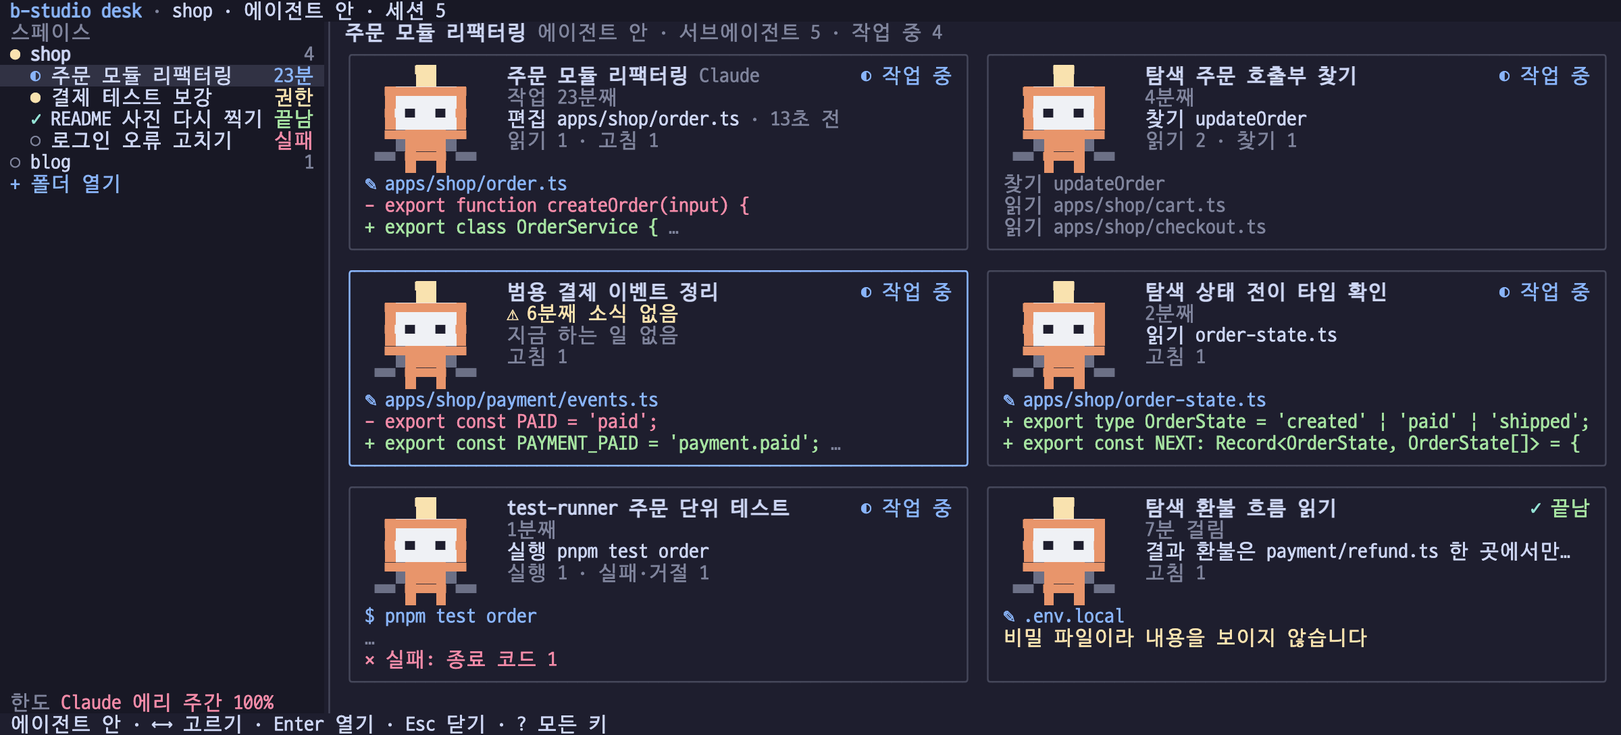
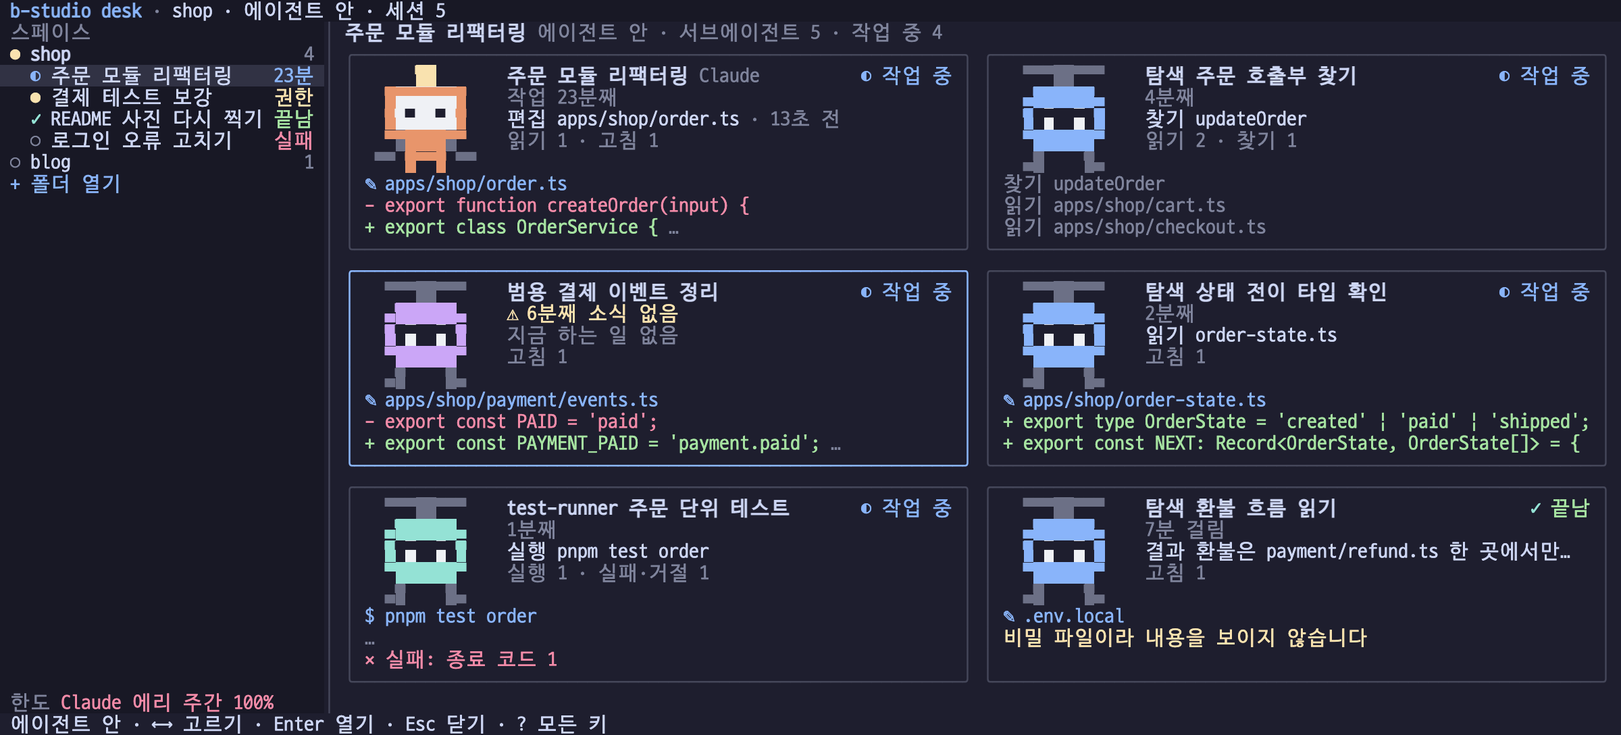
feat(desk): 에이전트 안 화면의 서브에이전트 카드에 메인과 다른 도우미 그림을 쓰고 종류마다 색을 달리한다 (#1417)

diff --git a/apps/cli/src/desk/sprite.test.ts b/apps/cli/src/desk/sprite.test.ts
@@ -4,7 +4,7 @@ import { join } from 'node:path';
 import { crc32, deflateSync } from 'node:zlib';
 import { afterEach, describe, expect, it } from 'vitest';
 import { stringWidth, stripAnsi } from './screen';
-import { decodePng, decodeSprite, defaultSprite, encodePng, frameAt, frameDelay, loadSprite, pickSprite, scalePixels, scanSprites, shortestFrame, shrinkPixels, spriteFromRows, spriteLines, trimSprite, type Sprite } from './sprite';
+import { decodePng, decodeSprite, defaultSprite, subagentSprite, encodePng, frameAt, frameDelay, loadSprite, pickSprite, scalePixels, scanSprites, shortestFrame, shrinkPixels, spriteFromRows, spriteLines, trimSprite, type Sprite } from './sprite';
 import { DEFAULT_THEME } from './theme';
 
 function chunk(kind: string, body: Buffer): Buffer {
@@ -250,5 +250,44 @@ describe('그림 폴더에서 무작위로 고르기(#902)', () => {
     writeFileSync(join(dir, 'codex.gif'), tinyGif(4, 5, 6));
     const sprite = loadSprite(dir, ['codex']);
     expect(sprite && rgba(sprite, 0, 0)).toEqual([4, 5, 6, 255]);
+  });
+});
+
+describe('서브에이전트 그림', () => {
+  const colorsOf = (sprite: { pixels: Uint8Array }): Set<string> => {
+    const seen = new Set<string>();
+    for (let at = 0; at < sprite.pixels.length; at += 4) if (sprite.pixels[at + 3]) seen.add([sprite.pixels[at], sprite.pixels[at + 1], sprite.pixels[at + 2]].join(','));
+    return seen;
+  };
+  const same = (a: { pixels: Uint8Array }, b: { pixels: Uint8Array }): boolean => Buffer.from(a.pixels).equals(Buffer.from(b.pixels));
+
+  it('메인의 기본 그림과 모양이 다르다(어느 AI의 기본 그림과도 같지 않다)', () => {
+    for (const backend of ['claude-code', 'codex', 'gemini', undefined]) {
+      for (const type of ['Explore', 'Plan', 'general-purpose', 'test-runner', undefined]) expect(same(subagentSprite(type), defaultSprite(backend))).toBe(false);
+    }
+    // 색만 바꾼 같은 모양이 아니다: 불투명한 자리 자체가 다르다
+    const opaque = (sprite: { pixels: Uint8Array }) => Array.from({ length: sprite.pixels.length / 4 }, (_, index) => (sprite.pixels[index * 4 + 3] ? '1' : '0')).join('');
+    expect(opaque(subagentSprite('Explore'))).not.toBe(opaque(defaultSprite('claude-code')));
+  });
+
+  it('CLI에 들어 있는 종류마다 몸 색이 다르고, 메인의 몸 색과 겹치지 않는다', () => {
+    const body = (type: string | undefined) => [...colorsOf(subagentSprite(type))].sort().join(' ');
+    const kinds = ['Explore', 'Plan', 'general-purpose'].map(body);
+    expect(new Set(kinds).size).toBe(3);
+    // 메인의 몸 색(AI별 셋과 모르는 AI의 회색)은 서브에이전트 그림에 쓰지 않는다
+    const mainBodies = ['232,149,107', '138,164,200', '127,183,164', '166,173,200'];
+    for (const type of ['Explore', 'Plan', 'general-purpose', 'test-runner', 'reviewer', undefined]) {
+      for (const color of mainBodies) expect(colorsOf(subagentSprite(type)).has(color)).toBe(false);
+    }
+  });
+
+  it('같은 종류는 같은 그림 객체다(Kitty가 그림을 객체로 기억한다). 사람이 만든 종류와 이상한 이름도 던지지 않는다', () => {
+    expect(subagentSprite('Explore')).toBe(subagentSprite('Explore'));
+    expect(subagentSprite('test-runner')).toBe(subagentSprite('test-runner'));
+    for (const type of ['__proto__', 'constructor', '', 'x'.repeat(10_000)]) expect(subagentSprite(type).width).toBeGreaterThan(0);
+    // 종류가 아무리 많아도 만드는 그림 수는 색 수를 넘지 않는다
+    const made = new Set(Array.from({ length: 500 }, (_, index) => subagentSprite(`custom-${index}`)));
+    expect(made.size).toBeLessThanOrEqual(8);
+    expect(made.size).toBeGreaterThan(1);
   });
 });

diff --git a/apps/cli/src/desk/inside.test.ts b/apps/cli/src/desk/inside.test.ts
@@ -2,6 +2,7 @@ import { describe, expect, it } from 'vitest';
 import { activityLines, MAX_ACTIVITY_LINES, MAX_ENTRIES, cleanText, insideCards, insideFailed, insideKey, insideLoaded, openInside, renderInside, type InsideState } from './inside';
 import { flushPending, handleInput, initialState, type DeskState } from './keys';
 import { stringWidth, stripAnsi } from './screen';
+import { defaultSprite, spriteLines, subagentSprite, type Sprite } from './sprite';
 import { DEFAULT_THEME } from './theme';
 import type { ActivityEntryView, ActivityLogView, DeskAgent, DeskItem } from './types';
 
@@ -327,5 +328,32 @@ describe('에이전트 안: desk 키 처리', () => {
     const opened = handleInput(desk(), 's').state;
     const next = handleInput(opened, '\x02w').state;
     expect(next.inside).toBeUndefined();
+  });
+});
+
+describe('메인과 서브에이전트의 그림이 다르다', () => {
+  // 카드의 그림 자리는 12칸×5줄이다. 그림의 둘째 줄(몸이 나오는 줄)이 어느 카드에 들어갔는지로 본다
+  const row = (sprite: Sprite) => spriteLines(sprite, 12, 5, DEFAULT_THEME, 0)[1]!;
+  const mainArt = row(defaultSprite('claude-code'));
+  const exploreArt = row(subagentSprite('Explore'));
+  const item = { ...session, backend: 'claude-code' };
+
+  it('메인 카드는 세션의 그림, 서브에이전트 카드는 도우미 그림이다(서브에이전트 카드에 메인의 그림이 없다)', () => {
+    expect(mainArt).not.toBe(exploreArt);
+    const lines = renderInside(state(base(), { items: [item] }), { w: 80, h: 40 }, NOW).lines;
+    const withMain = lines.filter((line) => line.includes(mainArt));
+    const withSub = lines.filter((line) => line.includes(exploreArt));
+    // 메인은 한 장, 서브에이전트(탐색)는 한 장 이상
+    expect(withMain).toHaveLength(1);
+    expect(withSub.length).toBeGreaterThanOrEqual(1);
+    expect(withMain[0]).not.toBe(withSub[0]);
+  });
+
+  it('그림 폴더에 subagent 그림이 있으면 서브에이전트 카드가 그것을 쓴다(메인은 그대로)', () => {
+    const custom: Sprite = { width: 1, height: 1, pixels: new Uint8Array([1, 2, 3, 255]) };
+    const lines = renderInside(state(base(), { items: [item], sprites: { subagent: custom } }), { w: 80, h: 40 }, NOW).lines;
+    expect(lines.filter((line) => line.includes(mainArt))).toHaveLength(1);
+    expect(lines.some((line) => line.includes(exploreArt))).toBe(false);
+    expect(lines.some((line) => line.includes(row(custom)))).toBe(true);
   });
 });

diff --git a/apps/cli/src/desk/sprite.ts b/apps/cli/src/desk/sprite.ts
@@ -378,6 +378,49 @@ export function defaultSprite(backend: string | undefined): Sprite {
   return spriteFromRows(ROBOT, { a: '#f9e2af', b: body, c: '#6c7086', w: '#eff1f5', k: '#1e1e2e' });
 }
 
+/** 서브에이전트의 기본 그림: 프로펠러와 어두운 눈가리개가 있는 도우미 로봇. 메인의 로봇(안테나, 흰 얼굴)과 윤곽부터 다르다 */
+const HELPER = [
+  ' cccccccc ',
+  '    cc    ',
+  '  bbbbbb  ',
+  ' bbbbbbbb ',
+  ' bkkkkkkb ',
+  ' bkwkkwkb ',
+  ' bbbbbbbb ',
+  '  bbbbbb  ',
+  '  c    c  ',
+  ' cc    cc ',
+];
+/** CLI에 들어 있는 종류의 몸 색. 메인의 몸 색(주황·청회색·청록·회색)과 겹치지 않게 골랐다 */
+const KIND_BODY = new Map<string, string>([
+  ['Explore', '#89b4fa'],
+  ['Plan', '#a6e3a1'],
+  ['general-purpose', '#cba6f7'],
+]);
+/** 사람이 만든 종류의 몸 색: 이름으로 하나를 고른다(같은 종류는 늘 같은 색) */
+const CUSTOM_BODY = ['#f5c2e7', '#f9e2af', '#94e2d5', '#f38ba8', '#74c7ec'];
+const helperSprites = new Map<string, Sprite>();
+
+/**
+ * 서브에이전트 카드의 그림. 메인과 모양이 다르고, 종류마다 몸 색이 다르다.
+ * 같은 색이면 같은 객체를 돌려준다(Kitty 경로가 그림을 객체로 기억하므로 매번 새로 만들면 그림을 다시 보낸다). 만드는 그림 수는 색 수를 넘지 않는다
+ */
+export function subagentSprite(type: string | undefined): Sprite {
+  let body = type === undefined ? undefined : KIND_BODY.get(type);
+  if (!body) {
+    let hash = 0;
+    // 이름이 길어도 앞 64자만 읽는다
+    for (const char of (type ?? '').slice(0, 64)) hash = (hash * 31 + char.codePointAt(0)!) >>> 0;
+    body = CUSTOM_BODY[hash % CUSTOM_BODY.length]!;
+  }
+  let sprite = helperSprites.get(body);
+  if (!sprite) {
+    sprite = spriteFromRows(HELPER, { b: body, c: '#6c7086', w: '#eff1f5', k: '#1e1e2e' });
+    helperSprites.set(body, sprite);
+  }
+  return sprite;
+}
+
 export function spriteDir(configDir: string): string {
   return join(configDir, 'sprites');
 }

diff --git a/apps/cli/src/desk/inside.ts b/apps/cli/src/desk/inside.ts
@@ -9,7 +9,7 @@
  * 기록의 글은 모두 서버가 준 것(CLI가 훅으로 보낸 코드와 명령 결과)이라 그리기 전에 cleanText로 제어 글자와 ANSI를 지운다.
  * 그릴 줄 수에는 상한이 있다(항목 수, 항목마다의 변경·줄 수, 한 에이전트의 총 줄 수). 키와 그림은 순수 함수다
  */
-import { agentQuiet, artSize, clipWords, compose, forText, nowLine, oneLine, spanText, spriteFor, subagentsOf, type Seg } from './cards';
+import { agentQuiet, artSize, clipWords, compose, forText, nowLine, oneLine, spanText, spriteFor, subagentSpriteFor, subagentsOf, type Seg } from './cards';
 import type { DeskState } from './keys';
 import type { KittyImages } from './kitty';
 import { fitAnsi, stringWidth, type Rect } from './screen';
@@ -520,7 +520,8 @@ function innerRows(built: BuiltCard, width: number): number {
 /** 카드 하나의 줄(테두리 포함). 안쪽 줄 수는 rows로 맞춘다 */
 function cardBox(built: BuiltCard, item: DeskItem, source: InsideSource, theme: Theme, width: number, selected: boolean, rows: number): string[] {
   const art = width >= ART_MIN_CARD ? ART : { cols: 0, rows: 0 };
-  const sprite = spriteFor(item, source.sprites);
+  // 메인은 세션의 그림, 서브에이전트는 종류마다 색이 다른 도우미 그림(한눈에 가른다)
+  const sprite = built.card.main ? spriteFor(item, source.sprites) : subagentSpriteFor(built.card.agent?.type ?? built.card.log?.type, source.sprites);
   const frame = frameAt(sprite, source.spriteClock ?? 0);
   const kitty: KittyImages | undefined = source.kitty;
   const picture = art.cols ? (kitty ? kitty.art(sprite, frame, art.cols, art.rows) : spriteLines(sprite, art.cols, art.rows, theme, frame)) : [];

diff --git a/apps/cli/src/desk/cards.ts b/apps/cli/src/desk/cards.ts
@@ -10,7 +10,7 @@ import type { DeskState } from './keys';
 import { fit, fitAnsi, stringWidth, type Rect } from './screen';
 import { agentStatus, attentionKind, backendLabel, compactTokens, deniedWrites, deskSessions, deskSpaces, detailLines, gateStatus, headStatus, subagentName, toolLabel, toolLineLabel, totalTokens, type StatusBadge } from './sidebar';
 import type { KittyImages } from './kitty';
-import { defaultSprite, frameAt, spriteLines, type Sprite } from './sprite';
+import { defaultSprite, frameAt, spriteLines, subagentSprite, type Sprite } from './sprite';
 import { BOLD, DEFAULT_THEME, fg, RESET, type ColorToken, type Theme } from './theme';
 import type { DeskAgent, DeskItem, DeskLimits, DeskLimitWindow } from './types';
 import { badge, bar, box, contextColor, spread, statusColor, statusText, TONE_COLOR, wrapWords } from './widgets';
@@ -37,6 +37,11 @@ const WEEKDAY = ['일', '월', '화', '수', '목', '금', '토'];
 /** 카드의 그림: 세션 id, AI 이름, default 차례로 찾고, 없으면 desk의 기본 그림 */
 export function spriteFor(item: DeskItem, sprites: Readonly<Record<string, Sprite>> = {}): Sprite {
   return sprites[item.id] ?? (item.backend ? sprites[item.backend] : undefined) ?? sprites.default ?? defaultSprite(item.backend);
+}
+
+/** 서브에이전트 카드의 그림: 그림 폴더의 `subagent` 그림, 없으면 종류마다 색이 다른 도우미 로봇. 메인의 그림과 늘 다르다 */
+export function subagentSpriteFor(type: string | undefined, sprites: Readonly<Record<string, Sprite>> = {}): Sprite {
+  return sprites.subagent ?? subagentSprite(type);
 }
 
 /** 다시 차는 때: 하루 안이면 "1시간 50분 뒤", 아니면 "10/26(월) 02:00"(이 컴퓨터 시각) */

diff --git a/apps/cli/src/desk/desk.ts b/apps/cli/src/desk/desk.ts
@@ -460,7 +460,8 @@ export async function desk(options: DeskOptions, env: NodeJS.ProcessEnv = proces
   const spriteSetting = config.sprites ?? 'random';
   const sprites: Record<string, Sprite> = {};
   if (spriteSetting !== 'off') {
-    for (const name of ['claude-code', 'codex', 'gemini', 'default']) {
+    // `subagent`는 서브에이전트 카드의 그림(에이전트 안 화면)
+    for (const name of ['claude-code', 'codex', 'gemini', 'default', 'subagent']) {
       const sprite = loadSprite(spriteDir(dir), [name], warnings);
       if (sprite) sprites[name] = sprite;
     }

diff --git a/docs/getting-started.md b/docs/getting-started.md
@@ -198,7 +198,7 @@ desk 기록 화면(`Ctrl-b h`)의 **AI별 결과**는 모든 세션의 만들기
 - `Ctrl-b j`는 다음에 볼 세션으로 갑니다. 손댈 것, 오류, 안 본 끝남, 알림이 붙은 세션 차례로 고르고, 이미 칸에 있으면 그 칸을 고르고, 아니면 보이는 빈 칸이 있을 때 그 빈 칸에(보던 칸의 세션을 바꿔 끼우지 않습니다), 빈 칸이 없으면 고른 칸에 엽니다. 다시 누르면 그다음 세션입니다. 열 칸이 셸이면 열지 않고 알립니다.
 - `Ctrl-b Space`는 빠른 전환 목록입니다. 모든 세션을 급한 순으로 보이고, 친 글자로 제목·스페이스·AI 이름을 거르며(빈칸으로 나눈 낱말이 모두 들어 있는 것), `↑` `↓`(`Ctrl-p` `Ctrl-n`, `Tab`)로 고르고 `Enter`로 칸에 엽니다. `Esc`나 `Ctrl-b Space`로 닫고, `Ctrl-b` 다음 다른 화면 키는 목록을 닫고 그리로 갑니다. 다른 덮는 화면처럼 하나만 열립니다.
 - 에이전트 나무 목록(`Ctrl-b m`, 카드 화면에서는 `m`만)은 에이전트와 서브에이전트가 각각 무엇을 하는지 한 화면에서 훑는 곳입니다. 세션 하나가 부모 줄(상태, 제목, AI 배지, 카드의 지금 줄과 같은 "지금 하는 일", 경과)이고, 그 세션이 띄운 서브에이전트가 `├` `└`로 들여쓴 자식 줄입니다. 자식 줄에는 종류와 맡긴 일, 지금 도구, 몇 분째인지가 나오고, 3분 넘게 조용하면 카드와 같은 규칙으로 노랑 "⚠ 6분째 소식 없음"이 붙습니다. 끝난 서브에이전트는 결과 한 줄입니다. 서브에이전트 정보가 없는 세션(Codex 등)은 부모 줄만 나옵니다. 범위는 고른 세션이 든 스페이스이고 `Tab`으로 전체 스페이스로 바꿉니다. `↑` `↓`로 줄을 고르고(`PgUp` `PgDn` `Home` `End`도 됩니다) `Enter`로 부모 줄이면 그 세션을 칸에 엽니다(카드 화면의 `Enter`와 같습니다). 자식 줄이면 그 서브에이전트의 활동 기록(아래 에이전트 안의 깊이 2)으로 들어갑니다. 줄이 화면보다 많으면 고른 줄이 보이게 내리고 맨 아래에 위·아래에 남은 줄 수를 적습니다. `Esc`나 `m`으로 닫고, `Ctrl-b` 다음 다른 화면 키는 목록을 닫고 그리로 갑니다. 보기만 합니다: 서브에이전트를 멈추거나 조종하지는 않습니다.
-- 에이전트 안(카드 화면에서 `s`)은 고른 세션 하나 안을 깊이로 봅니다. 나무는 길잡이, 카드는 내용, `Enter`로 들어가고 `Esc`로 한 단계씩 나옵니다. 깊이 1은 메인 카드 하나와 서브에이전트마다 카드 하나가 격자로 나오고(폭이 넓으면 옆으로 늘고, 카드가 화면보다 많으면 고른 카드가 보이게 넘기며 아래에 남은 장수를 적습니다), 카드마다 그림·이름(메인은 세션 제목, 서브에이전트는 종류와 맡긴 일)·상태·경과·지금 하는 일과 코드 조각이 있습니다. 코드 조각은 그 에이전트의 가장 최근 항목이 고치기·쓰기면 파일 이름과 지운 줄(`-`, 빨강)·쓴 줄(`+`, 초록), 실행이면 명령과 결과 끝 줄, 읽기·찾기면 최근 대상입니다. 비밀 파일이면 "비밀 파일이라 내용을 보이지 않습니다", 내용이 상한을 넘으면 "내용이 커서 보이지 않습니다", 판정하지 못했으면 "내용을 읽지 못했습니다"를 대신 적고, 잘린 조각은 `…`로 알립니다. 기록을 보내지 않는 경우(Codex의 서브에이전트, 이 기능이 없는 옛 스튜디오)는 카드가 한 줄만 보이고 화면 아래에 까닭이 나옵니다. `←` `→`(`↑` `↓` `h` `j` `k` `l`도 됩니다)로 카드를 고르고 `Enter`를 누르면 메인 카드는 카드 화면의 `Enter`와 같이 고른 칸에 그 세션의 터미널을 열고, 서브에이전트 카드는 깊이 2의 활동 기록으로 들어갑니다. 활동 기록은 그 에이전트의 항목을 시간순으로 시각·도구(우리말)·대상·상태(진행 중·완료·실패·거절됨·끝 확인 못 함)·걸린 시간과 함께 보이고, 고치기·쓰기는 받은 만큼의 diff, 실행은 명령과 결과, 실패·거절은 까닭을 적습니다. `↑` `↓` `PgUp` `PgDn` `g`(맨 위) `G`(맨 아래)로 굴리고, 맨 아래에 있을 때만 새 항목이 와도 따라갑니다(위로 읽는 중이면 보던 자리를 지킵니다). 에이전트 나무 목록에서 서브에이전트 줄에 `Enter`를 해도 그 활동 기록으로 바로 갑니다. 이 화면이 열려 있는 동안만 스튜디오의 `GET /api/sessions/:id/agents/activity`를 1.5초마다 받고(앞 요청이 끝나기 전에는 보내지 않고, 닫으면 멈춥니다), 받기에 실패하면 마지막 자료를 두고 아래에 한 줄 알립니다. 코드 조각의 비밀 가림은 서버가 하며, desk는 받은 글의 제어 글자와 ANSI를 지우고 그립니다. 보기만 합니다: 서브에이전트를 멈추거나 조종하지는 않습니다.
+- 에이전트 안(카드 화면에서 `s`)은 고른 세션 하나 안을 깊이로 봅니다. 나무는 길잡이, 카드는 내용, `Enter`로 들어가고 `Esc`로 한 단계씩 나옵니다. 깊이 1은 메인 카드 하나와 서브에이전트마다 카드 하나가 격자로 나오고(폭이 넓으면 옆으로 늘고, 카드가 화면보다 많으면 고른 카드가 보이게 넘기며 아래에 남은 장수를 적습니다), 카드마다 그림·이름(메인은 세션 제목, 서브에이전트는 종류와 맡긴 일)·상태·경과·지금 하는 일과 코드 조각이 있습니다. 코드 조각은 그 에이전트의 가장 최근 항목이 고치기·쓰기면 파일 이름과 지운 줄(`-`, 빨강)·쓴 줄(`+`, 초록), 실행이면 명령과 결과 끝 줄, 읽기·찾기면 최근 대상입니다. 비밀 파일이면 "비밀 파일이라 내용을 보이지 않습니다", 내용이 상한을 넘으면 "내용이 커서 보이지 않습니다", 판정하지 못했으면 "내용을 읽지 못했습니다"를 대신 적고, 잘린 조각은 `…`로 알립니다. 기록을 보내지 않는 경우(Codex의 서브에이전트, 이 기능이 없는 옛 스튜디오)는 카드가 한 줄만 보이고 화면 아래에 까닭이 나옵니다. `←` `→`(`↑` `↓` `h` `j` `k` `l`도 됩니다)로 카드를 고르고 `Enter`를 누르면 메인 카드는 카드 화면의 `Enter`와 같이 고른 칸에 그 세션의 터미널을 열고, 서브에이전트 카드는 깊이 2의 활동 기록으로 들어갑니다. 활동 기록은 그 에이전트의 항목을 시간순으로 시각·도구(우리말)·대상·상태(진행 중·완료·실패·거절됨·끝 확인 못 함)·걸린 시간과 함께 보이고, 고치기·쓰기는 받은 만큼의 diff, 실행은 명령과 결과, 실패·거절은 까닭을 적습니다. `↑` `↓` `PgUp` `PgDn` `g`(맨 위) `G`(맨 아래)로 굴리고, 맨 아래에 있을 때만 새 항목이 와도 따라갑니다(위로 읽는 중이면 보던 자리를 지킵니다). 에이전트 나무 목록에서 서브에이전트 줄에 `Enter`를 해도 그 활동 기록으로 바로 갑니다. 이 화면이 열려 있는 동안만 스튜디오의 `GET /api/sessions/:id/agents/activity`를 1.5초마다 받고(앞 요청이 끝나기 전에는 보내지 않고, 닫으면 멈춥니다), 받기에 실패하면 마지막 자료를 두고 아래에 한 줄 알립니다. 코드 조각의 비밀 가림은 서버가 하며, desk는 받은 글의 제어 글자와 ANSI를 지우고 그립니다. 보기만 합니다: 서브에이전트를 멈추거나 조종하지는 않습니다. 메인 카드는 세션의 그림을, 서브에이전트 카드는 모양이 다른 도우미 그림을 씁니다. 도우미 그림은 종류마다 몸 색이 다르고(탐색 파랑, 계획 초록, 범용 보라, 사람이 만든 종류는 이름으로 고른 색), 그림 폴더에 `subagent.png`나 `subagent.gif`를 두면 그 그림으로 바뀝니다.
 - 스페이스 화면(`Ctrl-b w`, 열린 칸이 없으면 처음부터)은 맨 위에 확인 필요 줄을 둡니다. 권한·질문·입력을 기다리거나 오류·검증 실패·확인 필요인 세션을 스페이스와 상관없이 모아 번호(1~9)를 달고, 무엇을 기다리는지 한 줄로 적습니다. 숫자로 고르고 `Enter`로 그 칸에 엽니다(CLI에는 아무 키도 보내지 않으니 답은 그 칸에서 직접 합니다). 손댈 세션이 없으면 이 줄은 없습니다. 그 아래 고른 스페이스의 세션마다 카드를 놓습니다. 카드는 왼쪽에 작은 픽셀 그림, 오른쪽에 짧은 줄 몇 개입니다.
   - 머리: 이름·AI·열린 칸·상태. 작업 중이면 요청을 시작한 뒤 지난 시간("23분째"), 검증에 실패했거나 검증 중이면 그것이 상태 자리에 옵니다. 끝난 요청은 결과가 옵니다: 검증을 통과했으면 "검증 통과", 쓰기가 거절된 채 끝났으면 빨강 "쓰기 3번 거절"(에이전트가 끝냈다고 답해도 바뀐 것이 없을 수 있습니다. 확인 필요 줄에도 오릅니다).
   - 지금: 쓰는 도구와 대상, 마지막 소식에서 지난 시간("편집 apps/shop/order.ts · 13초 전"). 도구가 아직 돌면 "실행 pnpm test · 6분째"입니다. 작업 중인데 도구도 돌지 않고 3분 넘게 소식이 없으면 노랑 "⚠ 4분째 소식 없음"이 붙습니다. 권한·답·입력을 기다리거나 검증에 실패했으면 그 까닭이 이 자리에 옵니다. 게이트가 판정하지 않고 끝난 요청은 끝에 "검증하지 않음"이 붙습니다.

diff --git a/CHANGELOG.md b/CHANGELOG.md
@@ -10,7 +10,7 @@
 
 ### 추가
 
-- desk에 에이전트 안 화면을 더했습니다(#1411). 카드 화면에서 `s`로 고른 세션 안에 들어가면 메인 카드 하나와 서브에이전트마다 카드가 격자로 나오고(넓으면 옆으로 늘고, 많으면 넘깁니다), 카드마다 그림·이름·상태·지금 하는 일과 코드 조각이 보입니다: 가장 최근 항목이 고치기·쓰기면 파일 이름과 `-`/`+` 줄, 실행이면 명령과 결과 끝 줄, 읽기·찾기면 최근 대상입니다. 비밀 파일·너무 큰 내용·읽지 못한 내용은 조각 대신 까닭을 적고, 기록을 보내지 않는 CLI(Codex의 서브에이전트)나 옛 스튜디오는 한 줄만 보이고 화면 아래에 까닭이 나옵니다. `←` `→`로 고르고 `Enter`로 메인 카드는 터미널 칸(카드 화면의 `Enter`와 같은 동작), 서브에이전트 카드는 활동 기록(시각·도구·대상·상태·걸린 시간, 고치기·쓰기의 diff, 실행의 명령과 결과, 실패·거절의 까닭, `↑` `↓` `PgUp` `PgDn` `g` `G`로 굴리고 맨 아래에 있을 때만 새 항목을 따라갑니다)으로 들어가며 `Esc`는 한 단계 위로 나옵니다. 에이전트 나무 목록에서는 서브에이전트 줄에서 `Enter`가 그 활동 기록으로 갑니다(부모 줄은 그대로 세션을 칸에 엽니다). 열려 있는 동안만 스튜디오의 `GET /api/sessions/:id/agents/activity`를 1.5초마다 받고(앞 요청이 끝나기 전에는 보내지 않고, 닫으면 멈추고, 실패하면 마지막 자료를 두고 아래에 한 줄 알립니다), 서버가 준 글은 그리기 전에 제어 글자와 ANSI를 지우며 그리는 줄 수에 상한이 있습니다. 보기만 합니다
+- desk에 에이전트 안 화면을 더했습니다(#1411). 카드 화면에서 `s`로 고른 세션 안에 들어가면 메인 카드 하나와 서브에이전트마다 카드가 격자로 나오고(넓으면 옆으로 늘고, 많으면 넘깁니다), 카드마다 그림·이름·상태·지금 하는 일과 코드 조각이 보입니다: 가장 최근 항목이 고치기·쓰기면 파일 이름과 `-`/`+` 줄, 실행이면 명령과 결과 끝 줄, 읽기·찾기면 최근 대상입니다. 비밀 파일·너무 큰 내용·읽지 못한 내용은 조각 대신 까닭을 적고, 기록을 보내지 않는 CLI(Codex의 서브에이전트)나 옛 스튜디오는 한 줄만 보이고 화면 아래에 까닭이 나옵니다. `←` `→`로 고르고 `Enter`로 메인 카드는 터미널 칸(카드 화면의 `Enter`와 같은 동작), 서브에이전트 카드는 활동 기록(시각·도구·대상·상태·걸린 시간, 고치기·쓰기의 diff, 실행의 명령과 결과, 실패·거절의 까닭, `↑` `↓` `PgUp` `PgDn` `g` `G`로 굴리고 맨 아래에 있을 때만 새 항목을 따라갑니다)으로 들어가며 `Esc`는 한 단계 위로 나옵니다. 에이전트 나무 목록에서는 서브에이전트 줄에서 `Enter`가 그 활동 기록으로 갑니다(부모 줄은 그대로 세션을 칸에 엽니다). 열려 있는 동안만 스튜디오의 `GET /api/sessions/:id/agents/activity`를 1.5초마다 받고(앞 요청이 끝나기 전에는 보내지 않고, 닫으면 멈추고, 실패하면 마지막 자료를 두고 아래에 한 줄 알립니다), 서버가 준 글은 그리기 전에 제어 글자와 ANSI를 지우며 그리는 줄 수에 상한이 있습니다. 보기만 합니다 서브에이전트 카드는 메인과 다른 도우미 그림을 쓰고 종류마다 몸 색이 다릅니다(탐색 파랑, 계획 초록, 범용 보라, 사람이 만든 종류는 이름으로 고른 색). 그림 폴더에 `subagent.png`(또는 `.gif`)를 두면 그 그림을 씁니다.
 - 세션 터미널이 메인과 서브에이전트마다 최근 활동(도구 호출, 고치기·쓰기의 코드 조각, Bash 명령과 결과 끝 줄)을 기억에만 남기고 `GET /api/sessions/[id]/agents/activity`로 내놓습니다(#1411, ADR-232). 세션 기록에는 저장하지 않고 세션을 멈추면 지웁니다. 상한(에이전트당 20항목·조각 30줄·세션 전체 40만 바이트)은 읽기 전에 걸고 가림(세션의 비밀 값·자격 증명 모양)은 자르기 전에 합니다. 비밀 파일의 Write·Edit와 비밀 파일을 읽는 명령의 결과는 남기지 않습니다. 터미널 출력과 같은 보기 권한(만든 사람·관리자)이 필요합니다. desk 화면은 다음 단계입니다. 실제 claude CLI의 훅 입력으로는 재지 않았습니다.
 - 터미널 e2e(`pnpm e2e:api-terminal-orders`)가 같은 세션에서 계약 추가와 호환 깨짐 확인도 합니다(#1410). 주문 응답에 `memo`를 더하는 요청은 게이트를 한 번에 통과하고 계약 변경이 `OrderResponse.memo` 추가 하나(breaking 아님)이며 체크포인트가 하나 늘어납니다. 그 필드를 지우는 요청은 `property-removed`로 막히고 test 단계를 돌리지 않으며, 모델이 고치지 않으면 게이트 3번째 실패에서 실행이 failed로 닫히고 마지막 체크포인트로 되돌아갑니다. 채팅 경로의 `e2e:agent`는 그대로 둡니다.
 - desk에 에이전트 나무 목록(`Ctrl-b m`, 카드 화면에서는 `m`)을 더했습니다(#1408). 세션이 부모 줄이고 서브에이전트가 `├` `└` 자식 줄(종류·맡긴 일·지금 도구·경과·"N분째 소식 없음"·끝난 결과)이며, `↑` `↓`로 고르고 `Enter`로 그 세션을 칸에 엽니다. 범위는 지금 스페이스, `Tab`으로 전체입니다. 카드는 작업 중인 서브에이전트를 둘이 아니라 셋까지 보입니다. 사이드바 아래 한도 줄에 계정 이름이 붙고("한도 Claude 피오 주간 90%"), 카드의 한도 경고는 "다시 참" 대신 "초기화"로 끝나 다음 줄의 "답"과 이어 읽히지 않습니다. 서버와 자료 모양은 그대로입니다.
